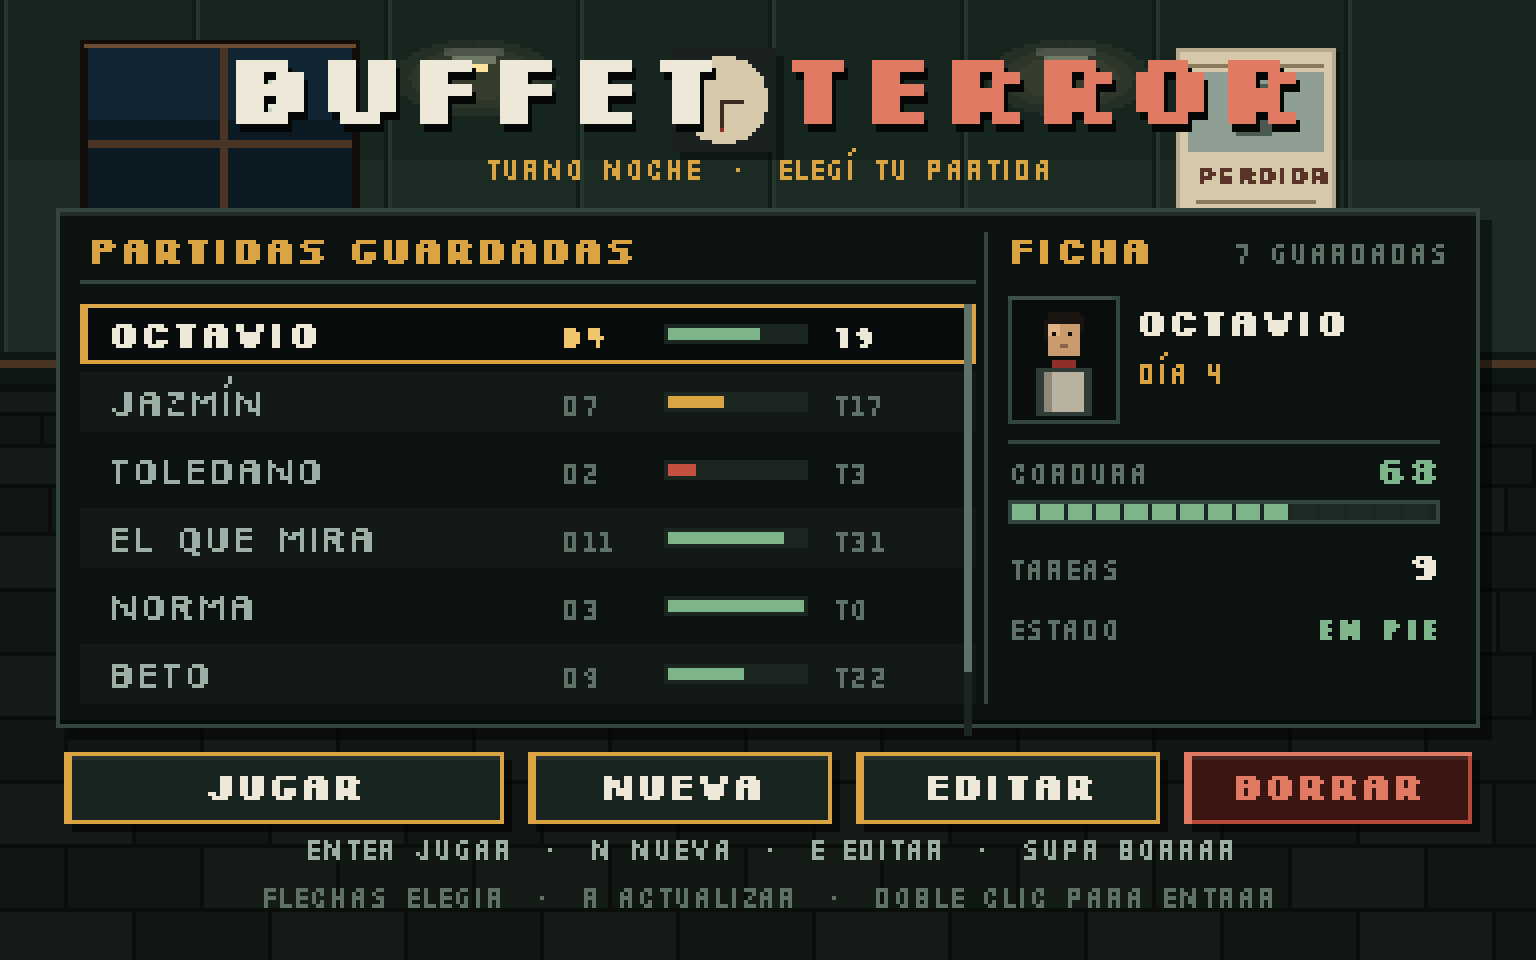
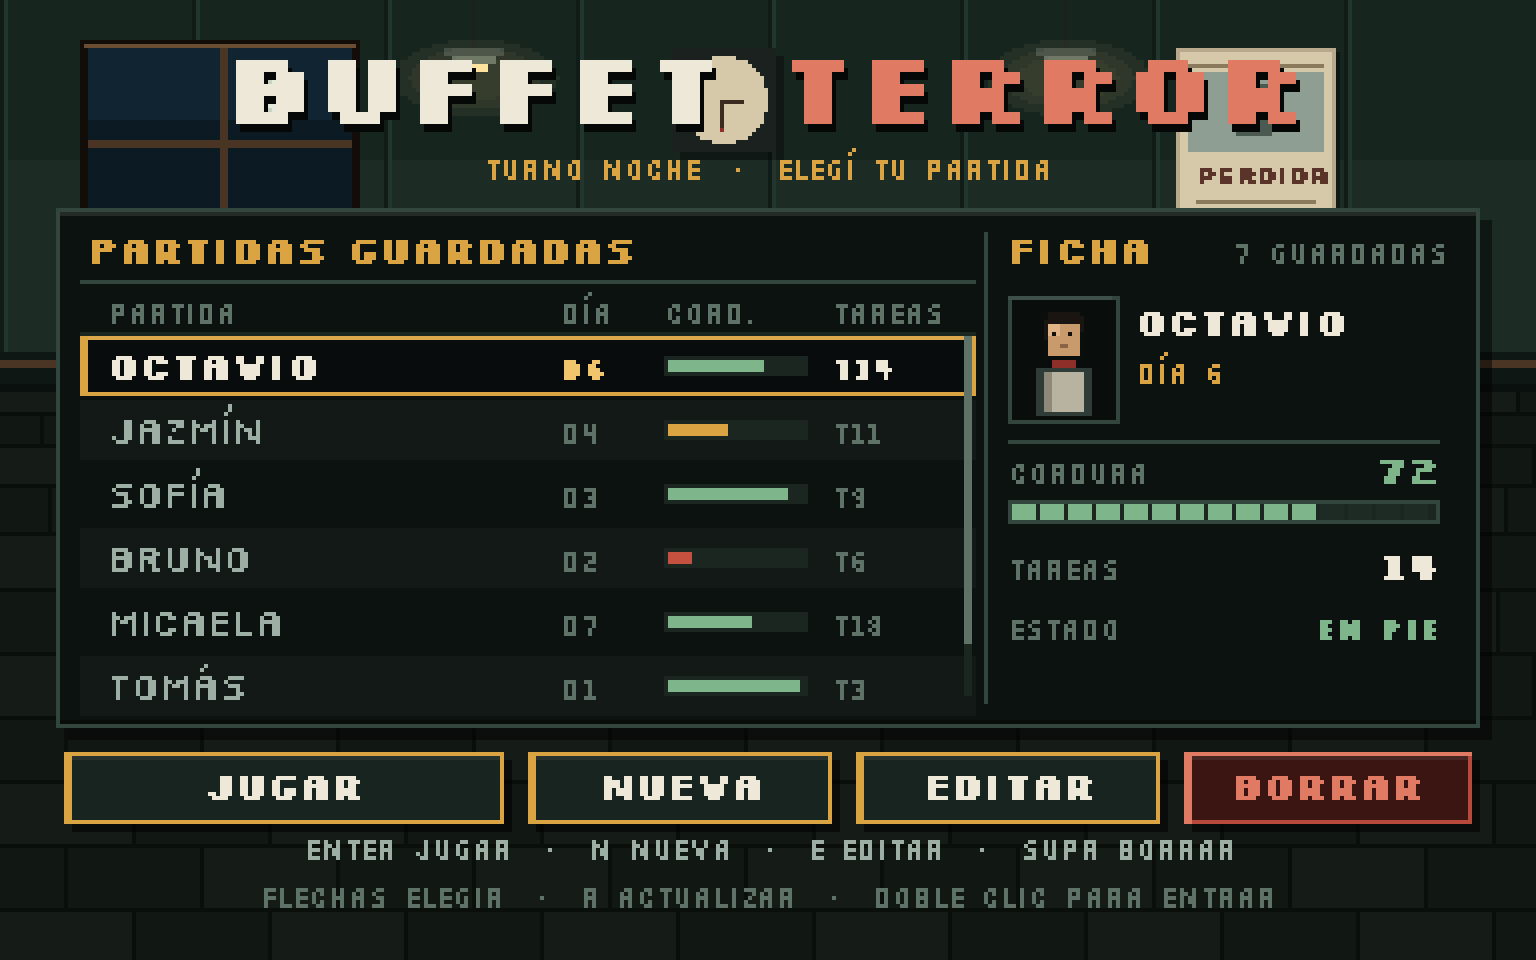
docs: actualizar README y capturas de la entrega

diff --git a/README.md b/README.md
@@ -3,77 +3,37 @@
 Juego de terror psicológico ambientado en el buffet de un colegio, llamado "El Buffet". Atendés clientes, hacés tareas y cuidás tu cordura.
 Proyecto Integrador de Laboratorio de Programación Orientada a Objetos (Ejercitación 16: escalado a interfaz gráfica).
 
-- **Integrantes:** Toledano Jazmín y Octavio Pagni
-- **Tecnología gráfica:** Java Swing + FlatLaf (Maven)
-- **Base de datos:** MySQL
-- **El juego se ejecuta en Java** (desde el IDE o con Maven). No hay versión web ni HTML.
+- Integrantes: Toledano Jazmín y Octavio Pagni
+- Tecnología gráfica: Java Swing + FlatLaf (Maven)
+- Base de datos: MySQL
 
 # Requisitos
 
 - JDK 17 o superior
-- Maven 3.8+ (si no lo usás desde el IDE)
+- Maven 3.8+
 - MySQL 8 (o MariaDB) corriendo en `localhost:3306`
 
-# Cómo ejecutarlo
+# Puesta en marcha
 
-## 1. Clonar el repositorio
+1. Instalá **JDK 17 o superior** y **Maven 3.8+**.
+2. Tené **MySQL 8** (o MariaDB) corriendo en `localhost:3306`.
+3. Creá la base ejecutando el script:
 
-```bash
-git clone <URL-del-repositorio>
-cd buffet-juego
-```
+   ```bash
+   mysql -u root -p < sql/schema.sql
+   ```
 
-## 2. Crear la base de datos
+   El script crea `buffet_terror`, la tabla `entidades` y una partida de ejemplo.
+4. Copiá `config.example.properties` como `config.properties` y completá usuario/clave si hace falta. Ese archivo está en `.gitignore` y no se sube al repositorio.
+5. Compilá y ejecutá con Maven desde la raíz del proyecto:
 
-Ejecutá el script `sql/schema.sql` en MySQL (crea la base `buffet_terror`, la tabla `entidades` y una partida de ejemplo):
+   ```bash
+   mvn clean compile
+   mvn compile exec:java
+   ```
 
-```bash
-mysql -u root -p < sql/schema.sql
-```
-
-## 3. Configurar la conexión
-
-Si usás `root` sin clave en `localhost` no hace falta hacer nada. Si no, copiá `config.example.properties` como `config.properties` (junto al `pom.xml`) y completá tus datos:
-
-```bash
-cp config.example.properties config.properties
-```
-
-`config.properties` está en `.gitignore`, así que no se sube al repositorio.
-
-## 4. Jugar
-
-**Con Maven (terminal):**
-
-```bash
-mvn compile exec:java
-```
-
-**Desde el IDE (IntelliJ IDEA, Eclipse, NetBeans, VS Code):**
-
-1. Abrí la carpeta del proyecto como proyecto Maven (el IDE lee el `pom.xml` y baja las dependencias).
-2. Ejecutá la clase `main.Main` (`src/main/java/main/Main.java`).
-3. El directorio de trabajo (*working directory*) tiene que ser la raíz del proyecto, para que encuentre `config.properties`. Es el valor por defecto en los IDEs.
-
-**Con un `.jar` (opcional):** `mvn package` genera `target/buffet-juego-1.0.0.jar`, que se abre con `java -jar target/buffet-juego-1.0.0.jar` parado en la raíz del proyecto. La carpeta `target/` no se sube al repositorio.
-
-Para verificar que compila: `mvn clean compile`.
-
-# Flujo de trabajo con Git
-
-- Una **rama por integrante** (por ejemplo `jazmin` y `octavio`), y `main` queda como rama estable.
-- Todo se hace con commits desde la terminal, con mensajes que digan qué cambió:
-
-```bash
-git checkout -b nombre-de-la-rama      # crear la rama (solo la primera vez)
-git add .
-git commit -m "Describe el cambio"
-git push -u origin nombre-de-la-rama   # la primera vez; después alcanza con git push
-```
-
-- Los cambios se integran a `main` con `git merge` (o un Pull Request) una vez que compilan y se probaron.
-- El `.gitignore` deja afuera `target/`, los archivos de los IDEs y `config.properties`.
-- El repositorio contiene solo la versión actual del juego. El historial de versiones anteriores queda en los commits, no en carpetas copiadas.
+   También podés abrir `pom.xml` en el IDE y ejecutar `main.Main`.
+6. Si querés un `.jar` ejecutable: `mvn package` y después `java -jar target/buffet-juego-1.0.0.jar` (parado en la raíz para que encuentre `config.properties`).
 
 # Cómo se juega
 
@@ -131,7 +91,7 @@ git push -u origin nombre-de-la-rama   # la primera vez; después alcanza con gi
 
 Todo el juego —el menú de partidas, el buffet, el HUD, los diálogos, el cuaderno y la intro— se dibuja dentro del mismo **lienzo de 384x240 píxeles** y después se escala por un factor entero (hasta 4x en 1920x1080, 2x en pantallas chicas) con *nearest neighbor*, así ningún píxel queda deformado ni borroso. No hay paneles de Swing alrededor del juego: el estado, la bitácora, el menú y los formularios son parte de la misma escena.
 
-- **Menú de partidas pixel art:** lista con barra de cordura por partida, ficha del jugador, botones de jugar/nueva/editar/borrar y formulario de alta o edición dentro del lienzo. La ventana usa el mismo tamaño entero que el juego, no una tabla de Swing.
+- **Menú de partidas pixel art con JTable real:** la lista es un `JTable` con `DefaultTableModel` que carga las partidas persistidas al abrir y se refresca después de cada alta, modificación o baja. La tabla se pinta dentro del lienzo junto con la ficha del jugador, los botones de jugar/nueva/editar/borrar y el formulario de alta o edición.
 - **Intro de cinco pasos:** cartel de "BUFFET TERROR" que parpadea, tres noches con texto a máquina y una última pantalla con los controles. Se avanza con `ENTER` y se sale con `ESC`.
 - **HUD dentro del lienzo:** día y sala, pedidos y tareas, barra de cordura, objeto en mano, objetivo del turno y las dos últimas entradas de la bitácora. El cartel de interacción aparece sobre la cabeza del personaje.
 - **Cuaderno (`TAB`):** pedido actual, tareas pendientes con su lugar y herramienta, e inventario navegable con `↑↓` + `ENTER`.
@@ -141,9 +101,18 @@ Todo el juego —el menú de partidas, el buffet, el HUD, los diálogos, el cuad
 - El arte se dibuja a mano con rectángulos de píxeles (elipses por filas, luces con tramado, partículas) y la tipografía es [Silkscreen](https://fonts.google.com/specimen/Silkscreen) (SIL Open Font License), incluida en `src/main/resources/fonts/`.
 - En Windows con escalado fraccionario (125 %, 150 %), `Main` fuerza `sun.java2d.uiScale=1.0` para que el zoom del sistema no arruine la nitidez del pixel art.
 
+# Contenido del repositorio
+
+- `pom.xml`: proyecto Maven con Java 17, MySQL Connector/J, FlatLaf y `exec-maven-plugin`.
+- `src/main/java`: código fuente por capas (`modelo`, `dao`, `service`, `excepciones`, `ui`, `main`).
+- `src/main/resources/fonts`: tipografía pixel art Silkscreen.
+- `sql/schema.sql`: crea la base `buffet_terror`, la tabla `entidades` y una partida de ejemplo.
+- `docs/`: capturas de la ventana principal, el registro exitoso y los cuadros de error.
+- `config.example.properties`: plantilla de conexión (el `config.properties` real va en `.gitignore`).
+- `.gitignore`: excluye `target/`, archivos de IDE, credenciales y la carpeta de referencia de consola.
+
 # Arquitectura en capas
 
-```text
 src/main/java
 ---------------------
 ├── ui/            Ventana, menú de partidas, escena pixel art de las cuatro salas (EscenaBuffet + Pixel, Java2D), pantalla de juego completa (intro, HUD, cuaderno, pausa) y tema FlatLaf. Sin reglas de negocio ni SQL.         
@@ -156,13 +125,11 @@ src/main/java
 |
 ├── interfaces/    Interactuable      
 |
-├── excepciones/   Las 5 excepciones del juego + PersistenciaException (fallas de base de datos)         
-|
-└── main/          Main: abre la ventana   
+├── excepciones/   Las 5 excepciones del juego + PersistenciaException (fallas de base de datos)
+│
+└── main/          Main: abre la ventana
 
-```
-
-Flujo: Usuario → UI → Service → DAO → MySQL. Las excepciones viajan del Service a la UI, que las muestra en el HUD del juego o en el menú, sin cortar la partida.
+Flujo: Usuario → UI → Service → DAO → MySQL. Las excepciones viajan del Service a la UI, que las muestra con `JOptionPane` (y además deja el aviso en el HUD), sin cortar la partida.
 
 # Capturas
 
@@ -175,3 +142,5 @@ Las pantallas del juego están renderizadas a 3x (1152x720) desde el lienzo de 3
 | ![Almacén](docs/almacen.png) | ![Cuaderno](docs/cuaderno.png) |
 | ![Pausa](docs/pausa.png) | ![Fin de jornada](docs/findia.png) |
 | ![Derrota](docs/derrota.png) | ![Menú de partidas](docs/menu.png) |
+| ![Formulario de alta](docs/form.png) | ![Registro exitoso](docs/registro.png) |
+| ![Confirmación de borrado](docs/borrar.png) | ![Error de excepción](docs/error.png) |
